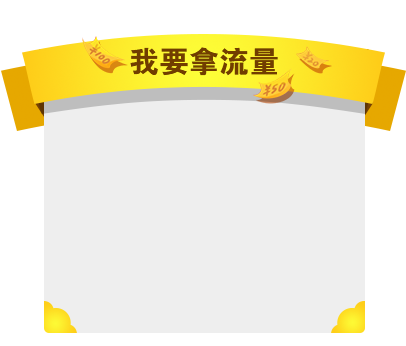
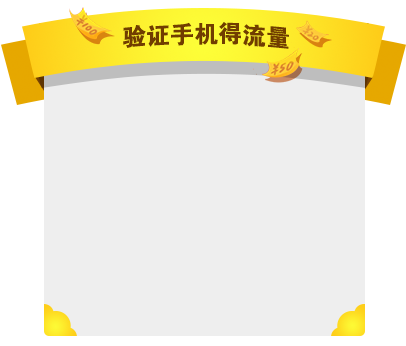
Signed-off-by: Fengsheng Li <lifengsheng@uniwa.cn>

diff --git a/移动专题/送流量移动文字版.html b/移动专题/送流量移动文字版.html
@@ -62,7 +62,7 @@ li{ list-style:none;}
 .gfwz{ display:block; width:480px; line-height:45px; position:absolute; z-index:1; bottom:0; left:0;}
 
 
-.tanchuan{ width:400px; background:url(images/wynxj.png); position:fixed; z-index:999; top:32%; left:50%; margin: 0 0 0 -202px; border-radius:6px; text-align:center; padding:110px 0 0px; font-size:18px; color:#666; line-height:2em; height:215px;}
+.tanchuan{ width:400px; background:url(images/wynxj.png); position:fixed; z-index:999; top:32%; left:50%; margin: 0 0 0 -202px; border-radius:6px; text-align:center; padding:85px 0 0px; font-size:18px; color:#666; line-height:2em; height:255px;}
 .intel{ background:#e8b02c; border:2px solid #9d0000; width:200px; height:40px; font-size:22px; border-radius:3px; margin:10px 0 0 0; vertical-align:middle;}
 .subbt2{ display:block; margin: 10px auto 0; border-radius: 3px; background:#30a9ed; box-shadow:0 3px 0px 0px #006096; font-size:22px; line-height:46px; color:#fff; height:46px; width:136px;}
 .ztclosed{ position:absolute; z-index:1; right:30px; top:55px; width:34px; height:34px; line-height:28px; background:#fff; border-radius:60px;}
@@ -70,7 +70,8 @@ li{ list-style:none;}
 .send_captcha_time{ background:#999;}
 .tanchuan_yzm .intel2{ width:240px; background:#fff; border:2px solid #ccc; margin:10px 0 0 0; vertical-align:middle;}
 .tanchuan_yzm .intel3{ width:148px;}
-.red{ color:#ff2400;}
+.red{ color:#ff2400; width:300px; display:block; margin:15px auto 0; line-height:1.5em;}
+.bqxx{ color:#fff; text-align:center; font-size:10px; padding:40px 0 0 0;}
 </style>
 </head>
 
@@ -82,13 +83,14 @@ li{ list-style:none;}
     <a class="qhbn">马上领取</a>
     <div class="hdgz">「MM财经用户在炒股大赛完成一笔模拟交易后，可免费获得一份30M移动流量包，流量当月有效。」
 </div>
+<div class="bqxx">本次活动最终解释权归亿元民间炒股大赛所有 客服电话010-59474660</div>
 <div class="gfwz"><img src="images/logo_02.png"></div>
 </div>
 
 
 <div class="tanchuan tanchuan_yzm"><div><input class="intel intel2 " placeholder="请输入手机号"  type="tel"><br><input class="intel intel2 intel3" placeholder="请输入验证码"  type="tel"><input type="button" value="获取验证码" class="send_captcha" id="send_captcha"><input type="button" value="120S" class="send_captcha send_captcha_time" id="send_captcha"></div>
 <a class="subbt2">确定</a>
-<span class="red">手机号码错误</span><a class="ztclosed"><img src="images/cha.png"></a>
+<span class="red">手机号码错误手机号码错误手机号码错误手机号码错误手机号码错</span><a class="ztclosed"><img src="images/cha.png"></a>
 </div>
 
 </body>

diff --git a/大咖直播新版/提示页面.html b/大咖直播新版/提示页面.html
@@ -1,0 +1,20 @@
+<!doctype html>
+<html>
+<head>
+<meta name="viewport" content="width=device-width, initial-scale=1.0, minimum-scale=1.0, maximum-scale=1.0,user-scalable=no" id="viewport">
+<meta charset="utf-8">
+<link href="style/zhibocomm.css" type="text/css" rel="stylesheet">
+<link href="style/zhibo.css" type="text/css" rel="stylesheet">
+<title></title>
+</head>
+
+<body>
+
+<div class="tsym">
+	<div>因您未通过微信访问或未关注高德联讯公众号，所以您现在不能查看此页面。如想查看更多解盘信息，请保存二维码到本地通过登录微信扫一扫来关注<a class="blue">高德联讯投资助手</a>公众号</div>
+<img src="images/weinxinma.png"><br>
+也可登录微信关注微信号<span class="red">gdtzzs</span>，了解更多解盘信息。
+
+</div>
+</body>
+</html>

diff --git a/大咖直播新版/style/zhibo.css b/大咖直播新版/style/zhibo.css
@@ -252,10 +252,10 @@ span.zxytzbsj{ float:right; margin: 0;}
 .yqhyfc{ background:rgba(0,0,0,0.7);  width:100%; height:100%; position:fixed; z-index:2000; left:0; top:0; text-align:right; }
 .yqhyfc img{ width:90%; max-width:480px;margin: 0 10px 0 0;}
 
-
-
-
-
+/* 分享后提示页面 */
+.tsym{ text-align:center; background:#fff; padding:30px 30px 60px 30px; font-size:1.8rem; width:100%; height:100%;}
+.tsym div{ text-align:left;}
+.tsym img{ width:80%;}
 
 
 
